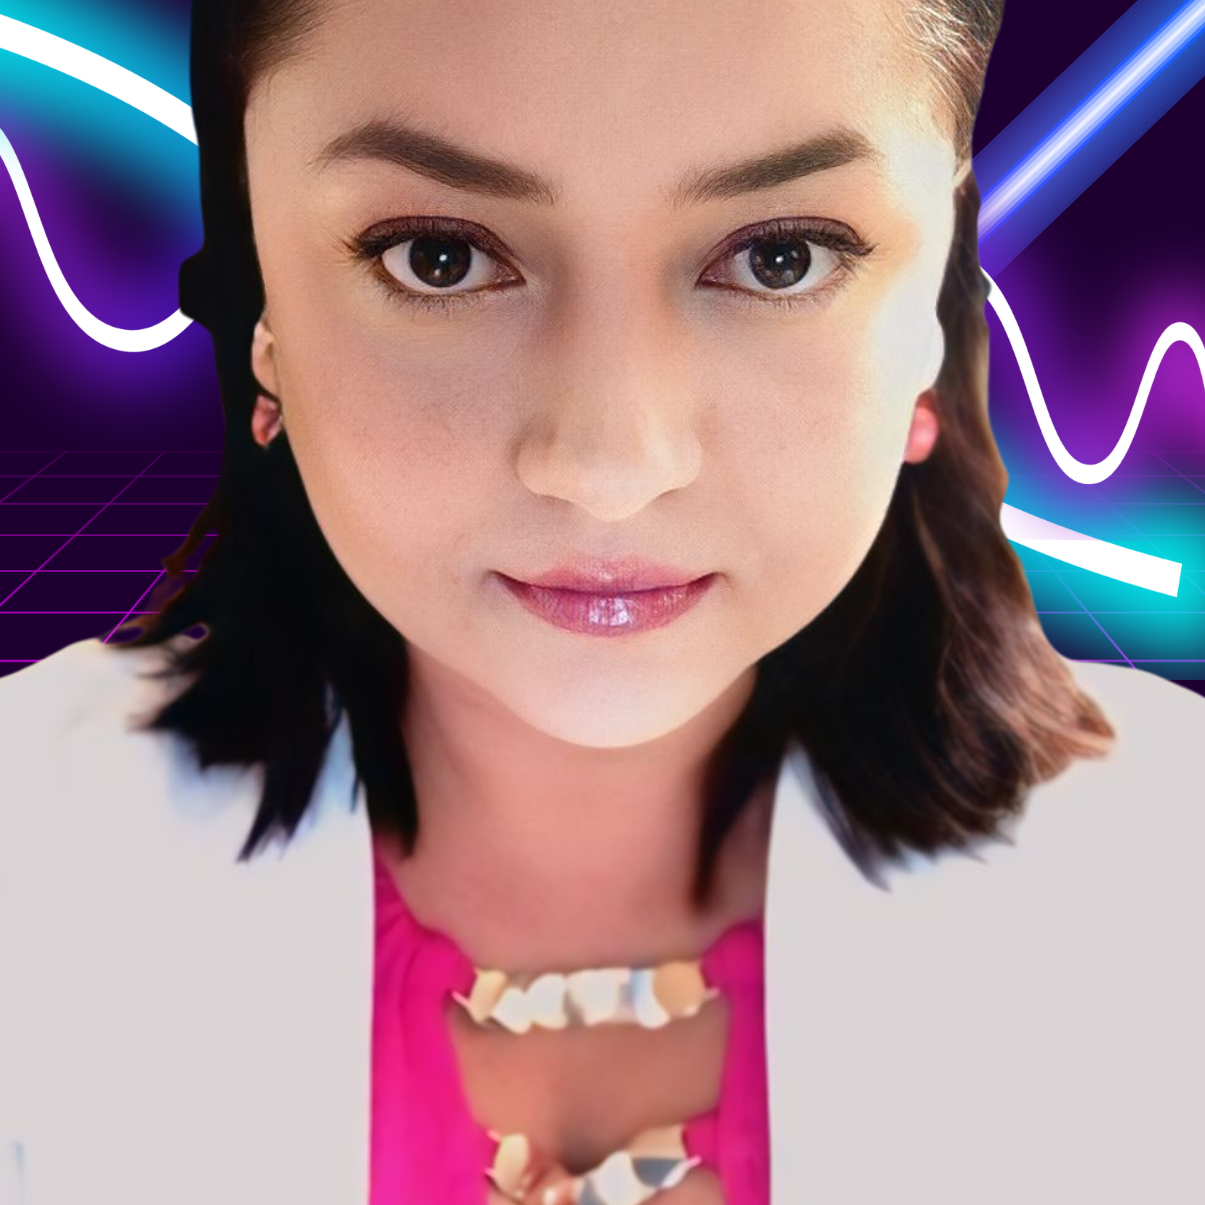
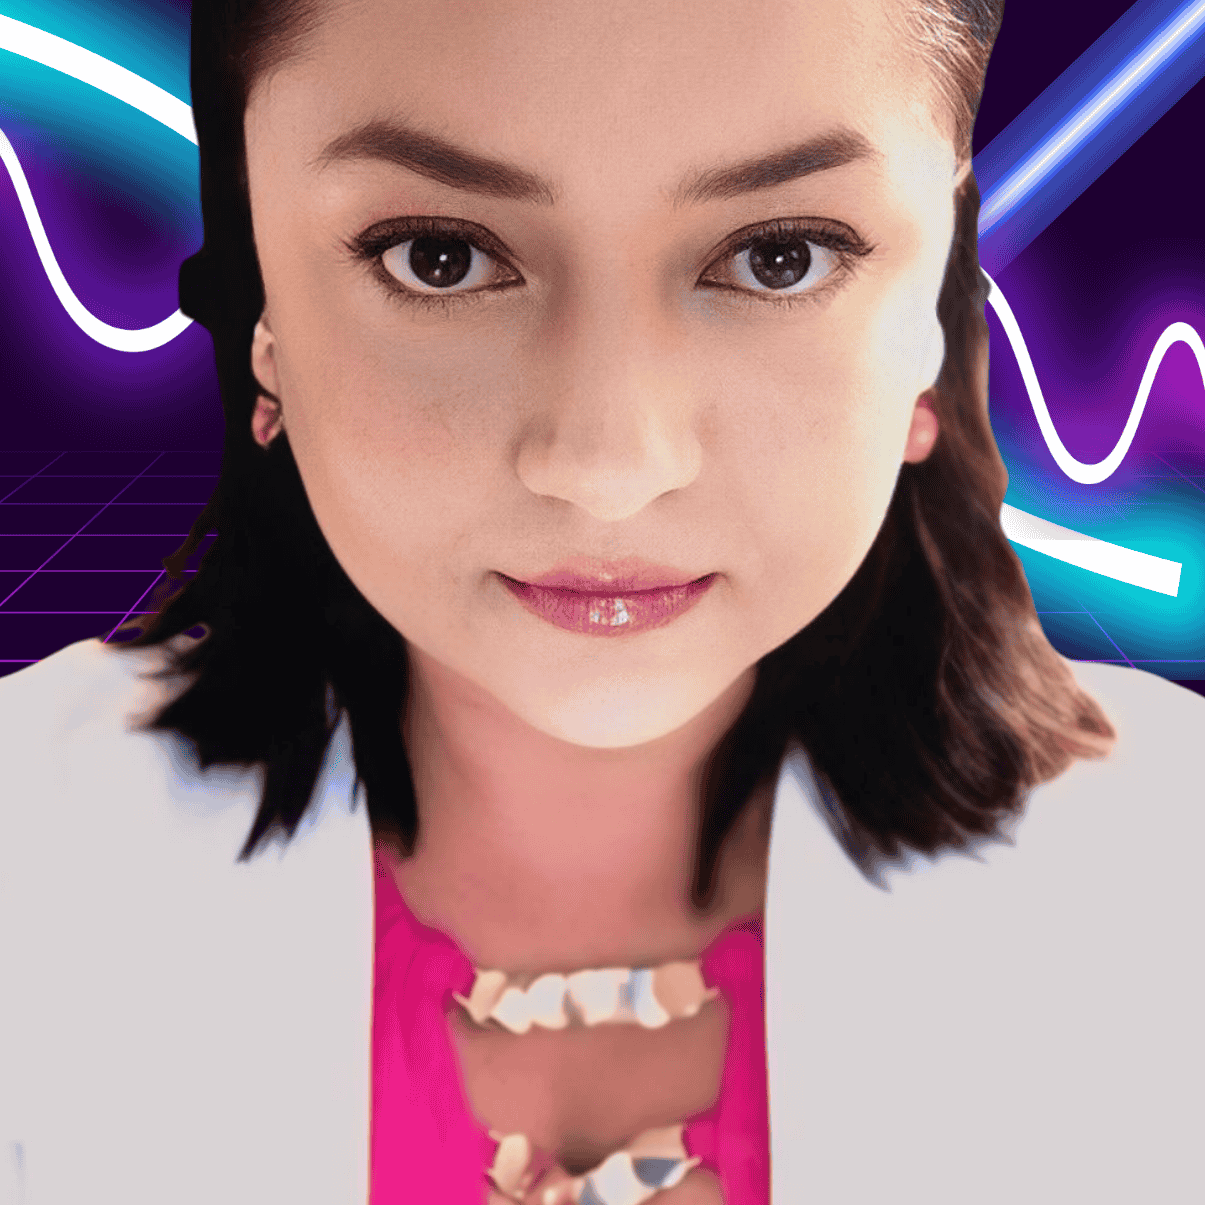
imagenes livianas

diff --git a/casaAldunate.html b/casaAldunate.html
@@ -791,7 +791,7 @@ Semana 4    Encuestas a clientes + ajuste de horarios y precios                 
     <div class="container text-center my-5" data-aos="zoom-in" data-aos-duration="1000">
       <div class="d-inline-flex align-items-center">
         <!-- Ícono (puedes reemplazar por otro si se requiere) -->
-        <img src="assets\img\vibraverde.webp" alt="Logo" width="40" class="d-inline-block align-text-top me-2">
+        <img src="assets\img\vibraverde.png" alt="Logo" width="40" class="d-inline-block align-text-top me-2">
         <h2 class="h4 text-success fw-bold">¡Gracias por tu vibra!</h2>
       </div>
     </div>

diff --git a/index.html b/index.html
@@ -74,7 +74,7 @@
     <nav class="navbar navbar-expand-lg navbar-dark bg-dark sticky-top">
         <div class="container">
             <a class="navbar-brand" href="#">
-                <img src="assets\img\vibraverde.webp" alt="Logo" width="30" class="d-inline-block align-text-top me-1">
+                <img src="assets\img\vibraverde.png" alt="Logo" width="50" class="d-inline-block align-text-top me-1">
                 Presentación para Miguel Cortés.
             </a>
             <button class="navbar-toggler" type="button" data-bs-toggle="collapse" data-bs-target="#navbarNav">
